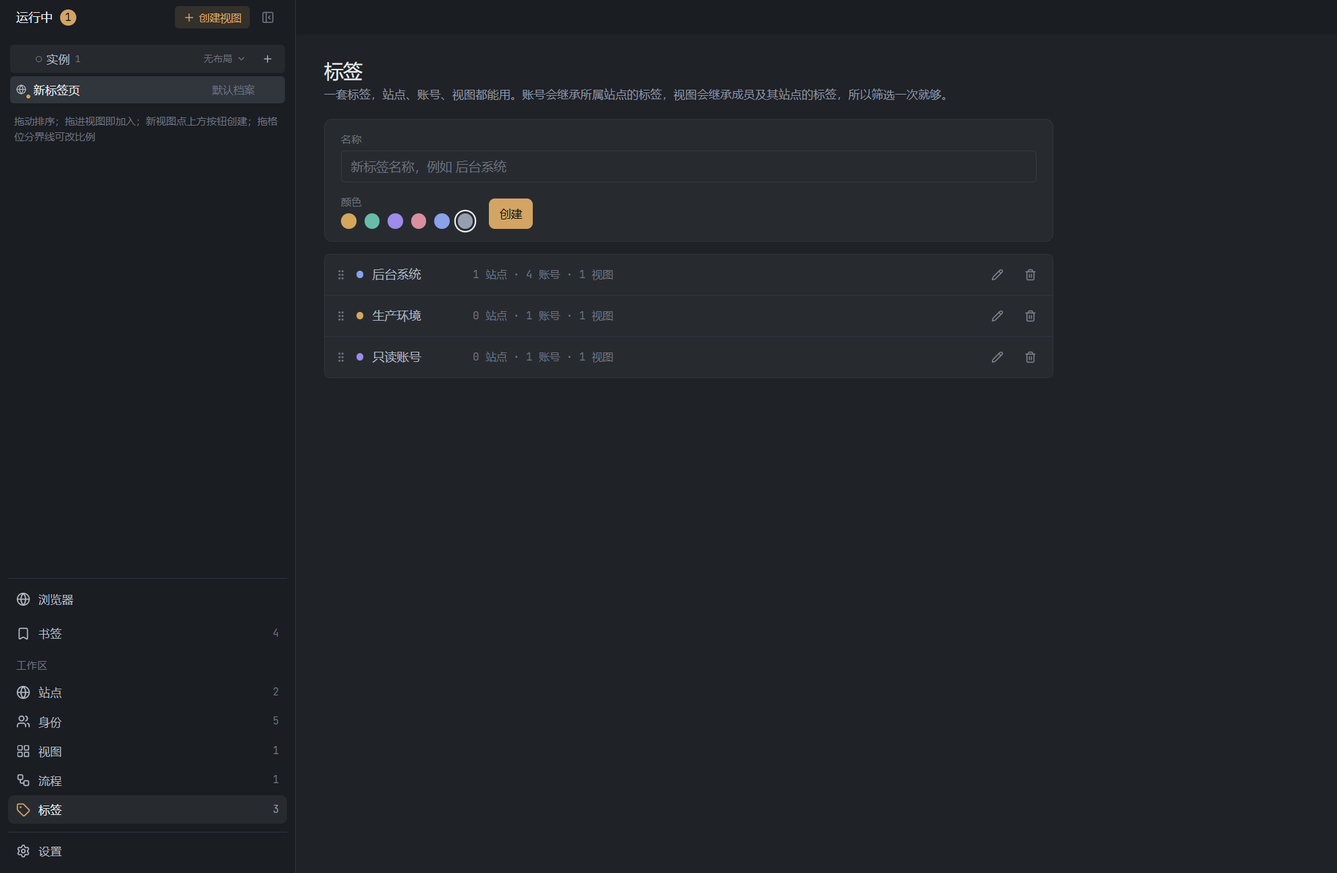
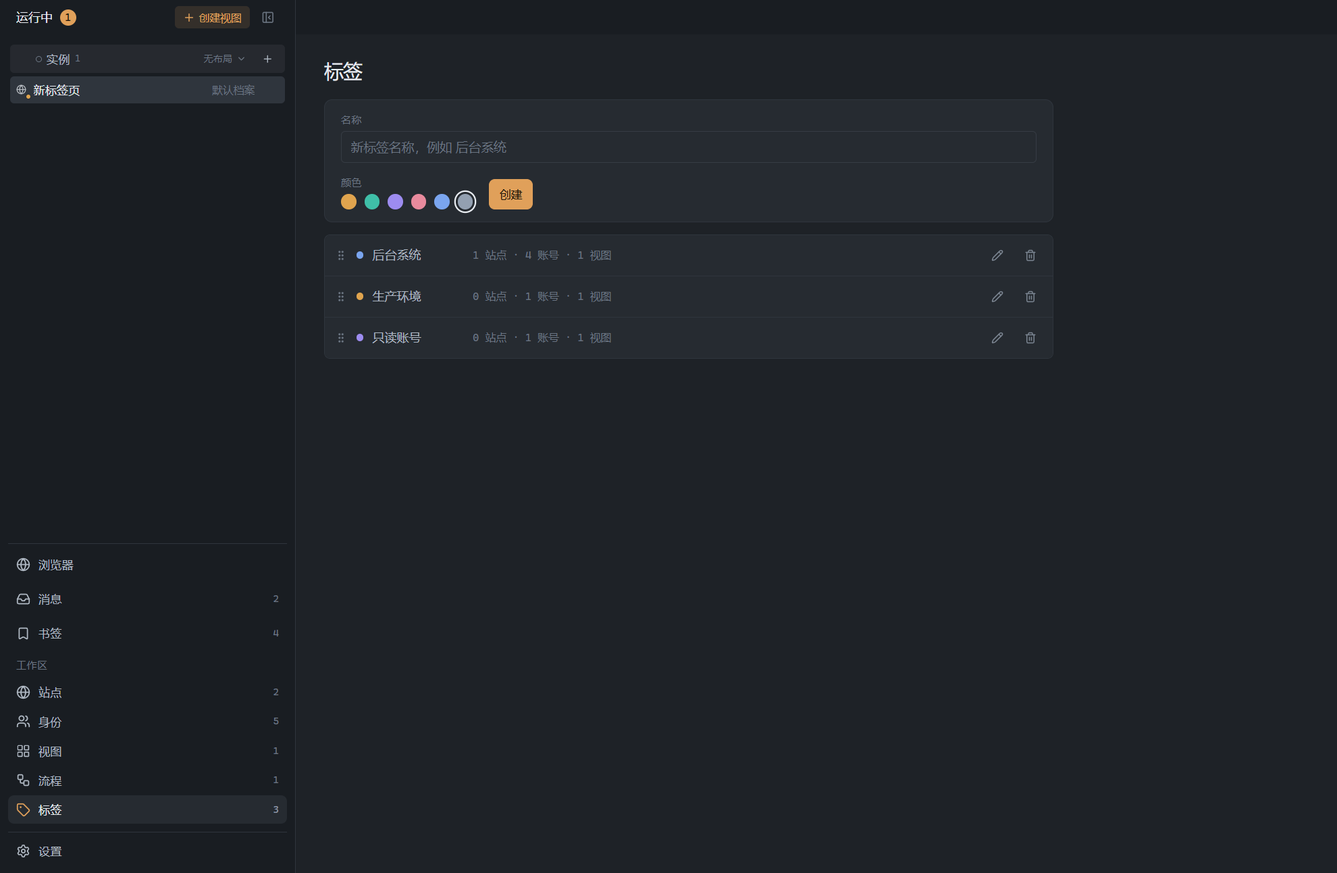
docs(root): 同步架构、README、踩坑库与界面截图
- architecture：补「浮层是一个统一状态」与「AI 能看见什么」两节，更新等待条件与查找栏说明
- README 中英：工具栏与会话菜单的入口重排、查找栏行为、AI 可观测能力
- 踩坑库：追加「页面侧包 console 收不到最早的日志」与「indexOf 找不到标记时 slice 静默覆盖」
- AGENTS：新增「不写不必要的说明子标题与解释性文案」硬约束
- 截图：全部重出，新增消息中心一张

diff --git a/docs/engineering/踩坑库.md b/docs/engineering/踩坑库.md
@@ -1612,3 +1612,123 @@
   在正向移动时完全看不出来，只有反方向才暴露，所以拖拽排序的 e2e 必须两个方向都测。
 - **日期**：2026-11-06
 - **状态**：有效（已落地；`e2e-bookmarks.mjs` 断言向下拖动后 `stored[1]` 是预期项）
+
+### 应用内更新每次都说「重定向到不受信任的地址」：`net.fetch` 不填 `response.url`
+
+- **现象**：更新对话框稳定报 `Error invoking remote method 'app:download-update': 更新下载被重定向到不受信任的地址，已停止。`，任何版本、任何网络都如此。
+- **环境**：Electron 45.2.1，`src/core/update/download.ts` 的最终地址校验 + 主进程 `net.fetch`
+- **原因**：下载器在拿到响应后检查 `response.url` 是否仍在 GitHub 域名下。Electron 的 `net.fetch`
+  无论 `redirect` 设成 `follow` / `manual` / `error`，**`Response.url` 一律是空字符串**
+  （实测三种模式都一样，连不重定向的 `api.github.com` 请求也是空）。空串过不了
+  `isTrustedUpdateUrl`，于是每一笔下载都被当成恶意重定向拒绝。单元测试没有发现，是因为注入的
+  假 `fetch` 用 `Object.defineProperty` 手动塞了一个合法 `url`。
+- **解决**：改走 `net.request`（`src/main/update-fetch.ts`），它的 `redirect` 事件在每一跳报告
+  真实目标地址，逐跳校验后才 `followRedirect()`；随后用 `Object.defineProperty` 给构造出的
+  `Response` 补上 `url`，让核心层原有的校验逻辑原样生效。同时核心层把「空 `url`」从
+  「不可信」改成「传输层没报告」，只校验已知地址。
+- **教训**：**Electron 的 `net.fetch` 与标准 `fetch` 不是同一个实现**，头部、`url`、`redirected`
+  这些字段都可能缺。凡是用 `response.url` / `response.redirected` 做安全判断的代码，必须在真
+   Electron 里打一次真实请求验证，不能只靠 Node 里的假响应；假响应要把「字段缺失」也作为一个
+  用例覆盖。
+- **日期**：2026-11-09
+- **状态**：有效（`tests/update-download.test.ts` 增加「传输层没有最终地址」用例；实机
+  `net.request` 探针确认 302 → `release-assets.githubusercontent.com` 判为可信）
+
+### `pnpm dev` 和安装版互相顶掉：两者默认的 userData 是同一个目录
+
+- **现象**：日常在用安装版，想开 `pnpm dev` 调试——要么开发窗口起不来（终端里没报错，反而是已装的那个窗口被提到前面），要么开发时改的站点/账号出现在安装版里，反过来也一样。两边同时开着时，设置页的 MCP 端点总有一个显示「端口被占用」。
+- **环境**：Electron 45，`electron .` 开发 + `Ensemble-2.0.0-win-x64-setup.exe` 安装版共存
+- **原因**：三个东西同时撞车。
+  1. **userData 路径**：`electron .` 读的是同一份 `package.json`，`app.isPackaged` 为 false 但应用名仍是 `ensemble`，于是和安装版一样解析到 `%APPDATA%\ensemble`。`workspace.json`、`vault.json`、`profiles/` 全部共用。
+  2. **单实例锁**：`app.requestSingleInstanceLock()` 的锁在 userData 里。共用目录 = 同一把锁，所以后启动的进程直接 `app.quit()` 并把先开的那个窗口显示出来——这就是「开发版打不开，但安装版窗口跳出来了」。
+  3. **MCP 默认端口**：两边都是 47821，`McpServer` 的重试梯度（300ms→4.8s）等完仍被占，报端口忙。
+- **解决**：
+  - `src/main/user-data.ts` 的 `devUserDataDir()`：非打包且调用方没显式指定目录时，用 `%APPDATA%\ensemble-dev`；打包版不动（改它会把已装用户的工作区搬走）。
+  - 开发版 `app.setName("Ensemble Dev")`，窗口标题/托盘/About 都读同一个 `appDisplayName`。
+  - Windows AUMID 分开（`...ensemble.dev`），否则两个窗口在任务栏被合成一个按钮。
+  - `DEV_DEFAULT_PORT = 47822` 作为开发版的 MCP 默认端口；**只改默认值**，用户手选的端口照原样。
+- **教训**：凡是「同一份代码跑两种形态」的场景，先把**会彼此覆盖的资源**列出来——数据目录、单实例锁、固定端口、AUMID、profile 目录。只隔离数据目录是不够的：锁和端口仍然会把两个实例变成互相排斥。判据是「两个实例同时存在时，谁会影响谁」，而不是「它们是不是同一个应用」。
+- **日期**：2026-11-09
+- **状态**：有效（`tests/dev-user-data.test.ts` + `tests/mcp-dev-port.test.ts` 覆盖；实机确认安装版 47821、开发版 47822，两份 `workspace.json` 互不触碰）
+
+### `set_browser_viewport` 返回成功但不生效：先把页面全屏再读宽度
+
+- **现象**：MCP 调 `set_browser_viewport` 返回 `{width:390,height:844}`，随后 `evaluate_browser_page("innerWidth")` 仍是 1320。只在页面**不在台上**时出现；单独一个页面在台上时正常（1320→390→1320 都对）。
+- **环境**：Electron 45，`EmbeddedBrowser.setViewport` + `GuestPool.vue` 的 ghost 分支
+- **原因**：两层叠加。
+  1. 页面不在台上时被 `parkUnstaged` 清零成 0×0，`applyLayout` 只为「上台」的页面算 fit 比例，所以视口从未真的应用过——但 `setViewport` 照样返回成功。
+  2. 即使把后台页的 box 修好，`evaluate` 会走 `presented()`：它为了让页面出帧、可读，临时把节点挪到**整个舞台**。`GuestPool` 的 ghost 分支原来无条件用 stage 尺寸，于是页面被撑成窗口宽，`innerWidth` 读到的是窗口宽度而不是请求的尺寸。
+- **解决**：
+  - `parkUnstaged` 对**有固定视口**的页面不再清零，改给它 fit 后的真实 box（放在窗口左侧外，仍被合成器 cull、仍点不到）。
+  - `guestNodeRect` 的 off-stage 分支保留页面自己的 `bounds` 尺寸，只把 x 移到窗口外；原来无条件回退 stage 尺寸。
+  - `GuestPool` 的 ghost 分支：页面已有自己的 box 时保留该尺寸，只在「完全没有 box」（新建页）时退回舞台尺寸。
+- **教训**：**「读页面的工具」自己会改变页面的布局环境**。`presented()` 这类「为了读一下先让它可见」的手法，会让被读的页面在被读的瞬间换一套尺寸，于是任何和尺寸有关的断言都测的是呈现态而不是真实态。判断依据是「读操作有没有副作用」，有就先把副作用关掉再读。
+- **日期**：2026-11-09
+- **状态**：有效（`e2e-mcp-tools` 增加两条按 `innerWidth` 断言的用例，分别验「在台上」与「不在台上」）
+
+### CDP 命令没有超时：一个不出帧的页面会把工具调用挂到客户端自己超时
+
+- **现象**：另一个会话用 MCP 驱动安装版 2.0.0，`screenshot_browser_tab` 报「超时 90 秒无响应」，换任何页面都一样；同时 `set_browser_viewport` 返回成功但 `innerWidth` 不变。
+- **环境**：Electron 45，`EmbeddedCdp.send` → `webContents.debugger.sendCommand`
+- **原因**：`sendCommand` **没有任何超时**。Chromium 对不产生帧的表面不是「报错」而是「永不回复」，`Page.captureScreenshot` 是已知例子。于是命令永久挂起，客户端只能等到自己的 90 秒上限，看到的是一句和真实原因无关的「无响应」。同一状态也会吞掉 `Runtime.evaluate`。`guest-cdp.ts` 里截图有 4 秒 race，但它外面还包着 `presented()` 和 `primeForCapture()`，后者的 host 截图**没有超时**。
+- **解决**：`src/shared/async.ts` 的 `withDeadline`；`EmbeddedCdp.send` 每个命令默认 30 秒上限并在错误里点名方法名；`lifecycle` 同样加界；`GuestHost.primeForCapture` 的 host 截图加 2 秒界（拿不到帧就走 renderer 路径，那才是正常结局）。
+- **教训**：**跨进程等一个「可能永远不回复」的调用，必须自己设上限**。文档里写了「这个命令会永远不回复」却只在某一条路径上加了 race，另一条路径就仍然是黑洞。审查时要按「所有出口」数，而不是按「已知会卡的那条」数。
+- **日期**：2026-11-09
+- **状态**：有效（`tests/async-deadline.test.ts` 覆盖「永不 settle」的形态）
+
+### 导航等待只认「你要的地址」：每个登录页都白等 10 秒
+
+- **现象**：打开站点的根地址，页面已经渲染完了，但整个调用要 10 秒才返回；直接开子路径就很快。
+- **环境**：Electron 45，`EmbeddedBrowser.whenReady`（`navigate` 之后的一次「到了吗」轮询）
+- **原因**：`whenReady` 只接受「当前地址 == 请求地址（忽略尾斜杠）」。而站点的登录跳转是 `/` → `/login`、`/login` → `/home`，路径本来就会变，于是判定永远不成立，轮询一路走到 10 秒上限。它**不报错**，只表现为「这个应用打开页面好慢」。
+- **关键事实**：`loadURL` 的 promise 早已 resolve，页面也早已 `complete`；慢的只是那次等待。「页面加载慢」和「等页面的代码慢」在用户侧无法区分。
+- **解决**：抽出纯函数 `navigationArrived`。到达条件改为三条之一：①请求地址（忽略尾斜杠/查询）②任意**其他**地址且文档已解析（重定向）③不知道起点时只信①。同时 `navigate` 先记住 `loadURL` 之前的地址，作为「有没有离开原文档」的判据。
+- **教训**：**不要把「我请求的 URL」当成「到达的信号」**。只要站点会重定向（登录、鉴权、补斜杠、http→https），URL 就只是请求而不是结果。判断到达要能接受「去了别的地方」，并且必须有一个下界——否则它退化成「等满超时」。
+- **日期**：2026-11-09
+- **状态**：有效（`tests/navigation-arrival.test.ts` 7 例；实机 `/`→`/login` 从 10176ms 降到 96ms）
+
+### 登录捕获漏掉两类最常见的表单：原生 submit 与「提交后清空」
+
+- **现象**：多租户后台（Vue + 组件库、无 `<form>`、`button type="button"`）能弹出存账号提示；换成普通 `<form action=...>` 或提交后清空密码框的页面就完全没有提示。
+- **环境**：Electron 45，`LOGIN_CAPTURE_SCRIPT` + `Runtime.addBinding`
+- **原因**：三个独立缺陷叠在一起。
+  1. **绑定只加了一次**（`captureBinding` 缓存）。`Runtime.addBinding` 暴露的函数是**每个 document 各一份**，原生 form 提交正好会替换 document，新页面里 `window.__ensembleLoginCaptured` 就是 `undefined`；捕获发生在提交瞬间，函数还没准备好。
+  2. **只读提交那一刻的输入框**。SPA 常在提交处理器里把密码框清空，等 `setTimeout(..., 0)` 去读时值已经没了。
+  3. **只认 `submit` 事件与 `input[type=submit]`**。组件库的按钮是 `type="button"`，点击不触发 submit。
+- **解决**：
+  - 每次 `did-finish-load` 都重新 `Runtime.addBinding`（重复添加会抛，捕获忽略即可）；删掉不再成立的 `captureBinding` / `claimCaptureBinding`。
+  - 脚本在 `input`/`change` 时**持续记录**最后一次看到的「用户名+密码」，提交时上报这份快照而不是当场读。
+  - `submit` 用捕获阶段、并且在默认动作之前上报；点击任何 `button` / `[role=button]` 都算（只要它在含密码框的表单里）；Enter 同理。
+- **教训**：**「注入到页面里的脚本」的生存期是 document，不是 tab**。任何挂在 `window` 上的东西、任何 `addBinding` 暴露的函数，跨导航都必须重装。判断一个注入脚本是否可靠，看的是「页面跳转一次之后它还在不在」，而不是「首次加载时它有没有跑起来」。
+- **日期**：2026-11-09
+- **状态**：有效（`e2e-login-capture` 三种页面形态 + 多租户断言，23/23）
+
+### 多租户站点的「同一个用户名」是两个账号
+
+- **现象**：zata 开发环境登录后没有任何存账号提示，但换一个没存过的用户名就有。
+- **环境**：`WorkspaceService.hasSavedLogin` + 登录捕获去重
+- **原因**：去重只比较「站点 + 用户名」。zata 的登录是**租户名 / 用户名 / 密码**三字段，同一个人在租户 A 和租户 B 是两个不同账号，但用户名相同就会被判成「已经存过了」，静默跳过——用户看不到任何提示，只能以为功能坏了。
+- **解决**：捕获脚本把密码框**前面**的其余文本框作为 `extraFields`（标签取 placeholder/aria-label/name）一起上报；`hasSavedLogin(siteId, username, tenant?)` 在租户不同时视为**新账号**（没有记录租户的旧条目保守地仍算同账号）；保存账号时自动补上捕获到的租户字段，并预填进账号表单。
+- **教训**：**「账号」的主键不一定是用户名**。凡是登录表单里不止「用户名 + 密码」的系统（租户、组织、企业域、工号），去重键就少了一维；少这一维的后果是**静默不提示**，而不是报错。排查这类问题先看登录页有几个输入框。
+- **日期**：2026-11-09
+- **状态**：有效（`tests/credential-reference.test.ts` 两例覆盖租户区分与无关字段；`e2e-login-capture` 覆盖「同名不同租户仍提示」）
+
+### 页面侧包 console 收不到最早的日志：那一行正是答案
+
+- **现象**：`read_browser_console` 对测试页返回空日志，但页面里明明有 `console.error` 和未捕获异常。
+- **环境**：Electron 45，`<webview>` guest，注入脚本在 `did-finish-load` 安装
+- **原因**：页面侧的 `console` 包装只能在文档存在之后安装，而 `did-finish-load` 更是要等首屏资源全部加载完。**页面启动阶段打的日志正好落在这个窗口之前**——而那些恰恰是「页面为什么没起来」的唯一线索。这个问题不是实现细节，是「用页面脚本收集日志」这条路的结构性缺陷。
+- **解决**：console 改由主进程的 `contents.on("console-message", details)` 收集，它从第一个文档的第一行就触发，还能报页面脚本包不住的内容（网络错误、CSP 违规、混合内容拦截）。页面侧脚本只保留网络部分（`fetch` / XHR 包装）——因为「请求是否在飞」没有事件可听，而长期挂着的 CDP `Network.enable` 会因为反自动化探测被放弃。
+- **教训**：**「注入脚本能看到什么」有一个下界：脚本自身安装之前的都不算。** 凡是需要「从第一行开始」的信息，先找主进程有没有对应事件，别默认注入脚本够用。两侧同时收集同一种信息还会导致重复——确认来源唯一后再写。
+- **日期**：2026-11-09
+- **状态**：有效（`tests/page-log.test.ts` 断言页面脚本不再包 console；`e2e-mcp-tools` 断言启动期日志能读回）
+
+### `indexOf` 找不到标记时 `slice` 会静默覆盖整个文件
+
+- **现象**：改完工具栏后 `tests/contracts/tooltips.test.ts` 里「工具栏不留原生 title」这条突然失败，报的命中项在应用菜单里——那条断言本该只看工具栏。
+- **环境**：Vitest 契约测试，用 `browser.slice(browser.indexOf(A), browser.indexOf(B))` 截取片段
+- **原因**：`B` 是工具栏里的一个 `v-if="findOpen"` 标记，查找框改成舞台内浮层后这个标记移出了工具栏，`indexOf` 返回 `-1`。`String.prototype.slice(start, -1)` 不是空串，而是「到倒数第一个字符」，于是片段实际包含了几乎整个文件——断言开始检查它从未打算检查的地方。**失败信息看起来像「新代码违反了契约」，实际是切片边界失效。**
+- **解决**：切片终点改成稳定标记（`<div ref="stage"`），并加 `expect(toolbar.length).toBeGreaterThan(0)`，让边界失效时以「片段为空」而不是「内容不对」报错。
+- **教训**：用 `indexOf` 做切片时，**两个边界都要验证存在**。只断言内容不报错的测试会在边界悄悄失效后继续"通过"（若新内容恰好合规），这是最坏的一种假绿。
+- **日期**：2026-11-09
+- **状态**：有效

diff --git a/README.en.md b/README.en.md
@@ -91,9 +91,9 @@ real browser — a separate path, triggered explicitly.
 
 Site 1—N identities, site 1—N views. A view is optional: without one the surface behaves like a plain browser, and views are created explicitly from the running dock. Isolation is unchanged — one profile per identity, sessions never cross sites — but the site is no longer a global filter: the identities page groups every account by site, and a view may span several. One tag namespace is shared by sites, accounts and views, and an account also matches its site's tags.
 
-The first launch opens a **guide** on its own: one page that covers the three steps (site → account → launch) and the fact that an AI can do all of them. Close it and it stays closed; reopen it from Settings whenever you like.
+The first launch opens a **guide** on its own: one page that covers the three steps (site → account → launch) and the fact that an AI can do all of them. Close it and it stays closed; reopen it from the app menu in the toolbar whenever you like.
 
-**The browser is the default page.** The address bar and slot headers sit on top, live pages below, and the running dock occupies the upper half of the left column, listing which accounts are open and in which slot; below it in the same column are the navigation entries — browser, sites, identities, views, flows, tags, bookmarks, with Settings alone at the bottom. Picking any of them swaps the content area for that page; picking the browser returns to the pages themselves. With the column hidden the window is a plain browser. The grid glyph at the left of the tab strip is that column's switch: it only shows or hides the column, and never changes how many cells the stage is split into.
+**The browser is the default page.** The address bar and slot headers sit on top, live pages below, and the running dock occupies the upper half of the left column, listing which accounts are open and in which slot; below it in the same column are the navigation entries — browser, bookmarks, sites, identities, views, flows, tags, with Settings alone at the bottom. Picking any of them swaps the content area for that page; picking the browser returns to the pages themselves. With the column hidden the window is a plain browser. The grid glyph at the left of the tab strip is that column's switch — opening it puts you in the workbench, collapsing it leaves a plain browser — and it only shows or hides the column, never changing how many cells the stage is split into.
 
 With no view open, startup lands on one blank page whose surface is a search box: type an address or words and press enter. A bookmark bar runs along the top of that blank page — one row of bookmarks and folders, folders open on hover and nest to any depth, and rows that do not fit move into an overflow menu at the right; it exists only on the blank surface. The stage still carries a page strip along the top, just like a cell of a view. Collapsed, the column keeps one site icon per running instance and hands the width back to the page:
 
@@ -152,7 +152,7 @@ The identities page is where most of the day is spent: one card per identity wit
 - **Clean sessions**: in external mode, throwaway windows with their own profile directory, deleted on close. In the built-in surface each clean open gets its own in-memory session — gone when the process exits, and two clean opens never see each other. The entry lives in the title bar's browser menu and follows that switch
 - **Daily profile**: in the built-in surface, identity-less pages share one persistent profile, so signing in once lasts. It is a separate world from a clean session, and a bookmark opens using the login it already holds
 - **Process reclamation**: on quit, only browsers launched against Ensemble's own profile root are stopped
-- **One entry per job**: the left column navigates browser / sites / identities / views / flows / tags / bookmarks, with Settings alone at the bottom; the toolbar's right-hand menu holds the infrequent entries — show the sidebar, launch target (built-in / external), clean session, bookmarks, settings, check for updates, about, quit. Password fill, the AI entry, zoom, downloads and the bookmark star stay in the toolbar
+- **One entry per job**: the left column navigates browser / sites / identities / views / flows / tags / bookmarks, with Settings alone at the bottom; the toolbar's right-hand menu holds the infrequent entries — show the sidebar, launch target (built-in / external), clean session, bookmarks, DevTools, AI access, settings, check for updates, about, quit. The toolbar itself keeps only the everyday controls: back and forward, the address bar, bookmark star, password fill, find, downloads, viewport and zoom
 - **Let an AI do the data entry**: a built-in MCP endpoint receives sites, identities and views from your AI client; it also drives the built-in browser, so given a test URL and a super-admin login it can create the tenant accounts, save them and put them on stage
 - **Flows are reusable assets**: an AI (or you) can save a page operation that worked as a flow — a list of parameterised steps that reruns in one call instead of being worked out again. A flow is steps, not a script, so it stays readable, editable and adjustable in the UI
 - **Portable config**: export the whole workspace to JSON, including encrypted passwords
@@ -218,7 +218,7 @@ The light theme matches the dark one, down to the native title-bar buttons:
 
 Have your AI create the accounts in a container, then record them in Ensemble without typing a single form:
 
-1. Turn on "AI access" in settings to get the loopback URL and a Bearer token — the AI entry at the right of the status bar jumps straight there, and its dot shows whether the endpoint is running;
+1. Turn on "AI access" in settings to get the loopback URL and a Bearer token — the "AI access" row in the toolbar's app menu jumps straight there, and the same row states whether the endpoint is running;
 2. Paste the config snippet into any MCP-capable client (Claude Code, ZCode, …);
 3. The AI calls `create_site`, `create_identities`, `create_view`, then `open_browser_view` (built-in browser) or `launch_view` (external windows).
 
@@ -254,9 +254,19 @@ What the AI does, and with which tool:
 Interactive tools address elements the way a person does — `label: "Username"`, `text: "Create
 tenant"` — instead of the long `:nth-of-type` paths a snapshot can express, which break the moment
 one conditional field appears on a component-library form. Asynchronous renders are waited on with
-`wait_browser` (`visible` / `hidden` / `text` / `url` / `value`) rather than sleep-then-read: one
-round trip, and no window in which the page changes itself (a menu closing on blur, an option
-appearing one frame late).
+`wait_browser` (`visible` / `hidden` / `text` / `url` / `value` / `network-idle`) rather than
+sleep-then-read: one round trip, and no window in which the page changes itself (a menu closing on
+blur, an option appearing one frame late). When you do not know which element will appear first,
+`network-idle` usually costs less: it waits for the requests to finish, so nothing about the page's
+shape has to be guessed in advance.
+
+**The AI gets more than a screenshot.** `read_browser_page` returns an accessibility snapshot —
+roles, readable names, stable selectors, the label beside each form field, and `parent` / `depth`
+for every node (which dialog a button belongs to). When clicking save does nothing,
+`read_browser_console` brings back the errors, console output and requests — failed `fetch` / `XHR`
+included — and clears them, so it answers "what happened since I last looked". Screenshots return a
+file path by default; `inline: true` sends the image itself as well, which is what a client that
+cannot open a local path needs.
 
 The pages live in the main window throughout, so you can watch, take over or interrupt at any point.
 Signing in as an account that is already saved never asks "save this login?" again — only a

diff --git a/README.md b/README.md
@@ -94,13 +94,14 @@ ENSEMBLE_HEADLESS=1
 标签是唯一一套，站点、账号、视图都能挂，筛选时账号也会继承所属站点的标签。
 
 第一次打开时会自动弹出**使用指南**：一页讲清「建站点 → 录账号 → 启动」这三步，以及这些事
-都能交给 AI 做。关掉就不再打扰，想再看可以从设置里重新打开。
+都能交给 AI 做。关掉就不再打扰，想再看可以从工具栏右侧的应用菜单里打开。
 
 **浏览器是默认页。** 上面是地址栏与格位标题，下面是正在跑的页面；左侧一列上半是运行栏，
-把「这次开了哪些账号、各在哪个格位」列成一份可读的清单，下半是页面导航——浏览器、站点、
-身份、视图、流程、标签、书签，最底下单独一行设置。选浏览器时右侧就是页面本身，选其余各项时
+把「这次开了哪些账号、各在哪个格位」列成一份可读的清单，下半是页面导航——浏览器、书签、站点、
+身份、视图、流程、标签，最底下单独一行设置。选浏览器时右侧就是页面本身，选其余各项时
 右侧换成对应的配置页。收起侧栏时这一列不在，窗口就是一个普通浏览器：标签条、工具栏、页面。
-标签条左端的网格图标是这列的开关，它只控制显不显示，不改动舞台分成几格。
+标签条左端的网格图标是这列的开关——打开它就是工作台，收起时窗口就是一个普通浏览器；
+它只控制显不显示，不改动舞台分成几格。
 
 设置不一样：它盖住整扇窗，自带一行标签和返回按钮，左侧那一列也一起让开。
 
@@ -213,8 +214,9 @@ ENSEMBLE_HEADLESS=1
 - **进程回收**：退出时按 profile 路径精确回收自己启动的浏览器，不碰你日常用的窗口
 - **两条入口各司其职**：左侧列下面那一组导航管浏览器 / 站点 / 身份 / 视图 / 流程 / 标签 / 书签
   与设置；工具栏右端的菜单收着不常用的东西——显示侧栏、启动方式（内置 / 外部浏览器）、
-  干净会话、书签、设置、检查更新、关于、彻底退出。常用的密码填充、AI 入口、缩放、下载、
-  书签星标留在工具栏上；刷新按钮右键还有「清空缓存并刷新」，用于页面卡在旧资源上的时候
+  干净会话、书签、开发者工具、AI 接入、设置、检查更新、关于、彻底退出。工具栏上只留前进
+  后退、地址栏、书签星标、密码填充、查找、下载、视口与缩放这些每次都用的；刷新按钮右键
+  还有「清空缓存并刷新」，用于页面卡在旧资源上的时候
 
 <p align="center">
   <img src="docs/screenshots/app-menu.png" alt="工具栏右端的应用菜单：工作台、启动方式、干净会话与不常用的入口" width="900" />
@@ -296,7 +298,7 @@ ENSEMBLE_HEADLESS=1
 
 让 AI 帮你在容器里建账号，然后直接把账号录进 Ensemble——省掉手工一条条填表：
 
-1. 设置页打开「AI 接入」，得到回环地址与 Bearer Token（底栏右边的 AI 入口点一下就到这里，那里的小圆点也显示端点是否在运行）；
+1. 设置页打开「AI 接入」，得到回环地址与 Bearer Token（工具栏右端应用菜单里的「AI 接入」点一下就到这里，那一行右侧也直接标出端点是否在运行）；
 2. 把配置片段粘进你的 AI 客户端（Claude Code、ZCode 等支持 MCP 的客户端）；
 3. AI 调 `create_site` 建站点、`create_identities` 批量录身份、`create_view` 编排视图，
    `open_browser_view` 直接在内置浏览器里打开，或 `launch_view` 走外部窗口。
@@ -331,8 +333,17 @@ AI 依次做的事：
 
 交互类工具都按**人能读的东西**定位：`label: "用户名"`、`text: "创建租户"`，而不是
 `:nth-of-type` 拼出来的长路径，后者在组件库页面上多一个条件字段就失效。等异步渲染用
-`wait_browser`（`visible` / `hidden` / `text` / `url` / `value`），不要自己 `sleep` 再读——
-一次往返就够了，也不会在两次调用之间被页面自己变掉（菜单失焦关闭、选项晚一帧出现）。
+`wait_browser`（`visible` / `hidden` / `text` / `url` / `value` / `network-idle`），不要
+自己 `sleep` 再读——一次往返就够了，也不会在两次调用之间被页面自己变掉（菜单失焦关闭、
+选项晚一帧出现）。不知道会先出现哪个元素时，`network-idle` 往往更省事：它等的是「请求
+都发完了」，不需要预知页面长什么样。
+
+**AI 看到的不只是截图。** `read_browser_page` 返回的是可访问性快照——角色、可读名称、
+稳定选择器、表单字段旁的标签，以及每个节点的 `parent` 与 `depth`（这一个按钮属于哪个
+对话框）。点了保存没反应时，`read_browser_console` 一次拿回报错、控制台输出和网络请求
+（含失败的 `fetch` / `XHR`），读完即清空，所以它回答的是「上次读取之后发生了什么」。
+截图默认只给文件路径，`inline: true` 才把图像本身一起返回——读不到本机路径的客户端
+需要这一项。
 
 过程中页面就在主窗口里，你随时能看见、接手或打断。已经保存过的账号再次登录不会再问
 「要保存这个登录吗」——只有凭据库里还没有的密码才会弹提示。

diff --git a/CHANGELOG.md b/CHANGELOG.md
@@ -9,11 +9,27 @@
 
 ### 中文
 
-- 暂无
+- 书签或地址栏进入的网站登录后，提示「保存账号」会当场建好站点与独立身份，并直接以该身份启动。
+- 关掉存账号提示不再丢密码：捕获会记进消息中心，随时回去保存，不必退出重登。
+- 多租户站点（租户名 + 用户名 + 密码）现在能正确识别账号：租户名随账号一起保存，同一用户名在不同租户下各算一个账号。
+- 打开会跳转的站点不再白等 10 秒；普通表单提交、以及提交后清空输入框的登录页，也都能弹出存账号提示。
+- 新增**消息中心**：登录捕获、账号问题、AI 操作三类记录统一留档，重启后仍在；每条都能直接处理——保存账号、重新登录、跳到 AI 动过的那一页。侧栏有入口，工具栏铃铛显示未读数。
+- 工具栏收窄：开发者工具与 AI 接入移入右上角应用菜单，低频入口不再和常用控件挤在一行；菜单里开发者工具带勾选，AI 接入直接标出是否在跑。
+- 页面内查找改为悬浮在页面右上角，不再占一行高度把页面往下压；Ctrl+F 在界面或页面里都能唤出，打开即聚焦并选中上次的查询词。
+- 停靠的开发者工具在下拉菜单打开期间会自己让位。这次按「有没有浮层」统一判定，所有菜单都覆盖，嵌套菜单也正确——此前只有标签菜单会这样做，还传错了状态。
+- **AI 能看的东西补齐了**：新增 `read_browser_console`，一次读回页面的报错、控制台输出和网络请求，读完即清空，回答「上次读取之后发生了什么」；`wait_browser` 多了 `network-idle`，等页面所有请求发完并安静下来，不用再猜要等哪个元素；读页面时每个节点带上 `parent` 与 `depth`，能看出按钮属于哪个对话框；`screenshot_browser_tab` 加 `inline`，把图像本身随结果返回，供读不到本机路径的 AI 客户端使用。
 
 ### English
 
-- Nothing yet
+- Signing in on a site opened from a bookmark or the address bar now offers to save the account, creating the site and an isolated identity on the spot and launching it right away.
+- Closing the save prompt no longer loses the capture: it is recorded in the message centre, so you can go back and save it later instead of signing in again.
+- Multi-tenant logins (tenant + user + password) are recognised properly: the tenant is saved with the account, and the same username under another tenant counts as a separate account.
+- Sites that redirect no longer stall for ten seconds on open, and plain form logins — including pages that clear the fields after submitting — now offer to save the account too.
+- Added a **message centre**: captured logins, account problems and AI actions are kept in one history that survives restarts, and each row can act — save the account, sign in again, or jump to the page the AI touched. Reachable from the rail, with an unread badge and a toolbar bell.
+- The toolbar is down to the everyday controls: DevTools and AI access moved into the app menu at its right end, where the DevTools row shows a tick while it is open and the AI row states whether the endpoint is running.
+- Find in page now floats over the page at the top right instead of taking a row of its own and pushing the page down. Ctrl+F works from the chrome and from inside the page, and opening it focuses and selects the previous query.
+- A docked DevTools panel steps aside while any dropdown is open. That is now decided once, by whether a floating layer is open at all, so every menu is covered and nested menus keep the right state — before, only one menu did it, and it reported the wrong state.
+- **The AI can now see more of a page**: `read_browser_console` returns the page's errors, console output and requests in one call and clears them, so it answers "what happened since I last looked"; `wait_browser` gained `network-idle`, which waits until every request has finished and the page has gone quiet instead of guessing which element to watch; page reads now carry `parent` and `depth` per node, so a button can be attributed to the dialog it sits in; and `screenshot_browser_tab` takes `inline` to return the image itself, for clients that cannot open a local path.
 
 ## [2.0.0] - 2026-11-08
 

diff --git a/AGENTS.md b/AGENTS.md
@@ -21,7 +21,7 @@
 
 ```bash
 pnpm install          # 安装依赖（Node >= 22.12，pnpm 12）
-pnpm dev              # 开发模式
+pnpm dev              # 开发模式（工作区在 %APPDATA%/ensemble-dev，与安装版互不干扰）
 pnpm verify           # 全量校验：类型 + 单测 + 结构契约 + 构建（非 fail-fast）
 pnpm test             # 核心层单元测试
 pnpm typecheck        # Node 侧 + 渲染层类型检查
@@ -49,10 +49,11 @@ pnpm dist             # 打包三平台产物到 release/
 12. **等宽字体只用于技术数据**（账号、路径、版本、时间戳）。含中文的标签用正文字体。
 13. **界面文案与占位不得出现具体业务名或真实人名。** 用「本地开发环境」「管理员 · 主账号」这类中性示例。
 14. **界面文案只回答「这是什么、点了会怎样」，不得出现设计决策或历史对比。** 禁止「不再…」「以前…」「原来是…」「而不是…」「（已废弃）」「迁移自…」这类句式，也禁止解释「为什么这样设计」。用户看到的应当是功能本身；看到「它不再限定你能看到哪些账号」只会觉得莫名其妙——他不认识那个旧的自己。版本变更写 CHANGELOG，设计理由写 ADR，代码注释留给自己。
-15. **启动参数必须包含 `--disable-sync`。** 浏览器会自动用 Windows 账户登录并把同步数据（书签、扩展、密码）灌进新 profile，导致每个测试实例都带着操作者的账号和扩展。禁止改用 `--disable-extensions` 来规避——那会禁掉被测站点需要的扩展。
-16. **MCP 工具永远不返回明文密码。** 可以写密码（`password` 参数进加密凭据库），但不得提供读密码、复制密码或任何回显明文的工具与字段。删除类工具必须要求 `confirm: true`；启动类只受「运行」权限控制，不得按环境名字或其它启发式额外加确认。
-17. **MCP 端点只绑 `127.0.0.1`，并且必须校验 Bearer Token、`Host` 与 `Origin`。** 新增工具时按 read / write / run / danger 定档，权限开关在设置页控制；审计日志写入前对 `password|passphrase|token|secret` 递归脱敏。
-18. **退出顺序固定**：先停 MCP → 销毁托盘 → 回收浏览器。由 `tests/contracts/tray-mcp-lifecycle.test.ts` 守护，禁止在 `before-quit` 里提前置 `quitting` 绕过。
+15. **不写不必要的说明子标题、说明标签与解释性文案。** 判据只有一条：没这句话用户是否就不知道这是什么、或不知道点了会怎样；答案是「知道」就删掉。需要补充说明时，优先用图标 + hover tooltip（`v-tooltip`）承载，不占版面；只有影响安全、不可逆操作或会导致数据丢失的说明才允许常驻显示。设置项、表单字段、列表行一律默认只留「名称 + 控件」，不要每行配一句解释。
+16. **启动参数必须包含 `--disable-sync`。** 浏览器会自动用 Windows 账户登录并把同步数据（书签、扩展、密码）灌进新 profile，导致每个测试实例都带着操作者的账号和扩展。禁止改用 `--disable-extensions` 来规避——那会禁掉被测站点需要的扩展。
+17. **MCP 工具永远不返回明文密码。** 可以写密码（`password` 参数进加密凭据库），但不得提供读密码、复制密码或任何回显明文的工具与字段。删除类工具必须要求 `confirm: true`；启动类只受「运行」权限控制，不得按环境名字或其它启发式额外加确认。
+18. **MCP 端点只绑 `127.0.0.1`，并且必须校验 Bearer Token、`Host` 与 `Origin`。** 新增工具时按 read / write / run / danger 定档，权限开关在设置页控制；审计日志写入前对 `password|passphrase|token|secret` 递归脱敏。
+19. **退出顺序固定**：先停 MCP → 销毁托盘 → 回收浏览器。由 `tests/contracts/tray-mcp-lifecycle.test.ts` 守护，禁止在 `before-quit` 里提前置 `quitting` 绕过。
 ## 质量要求
 
 - TypeScript 保持 strict，不用 `any` 绕过类型（第三方边界处允许 `any`，但必须局部收口）。
